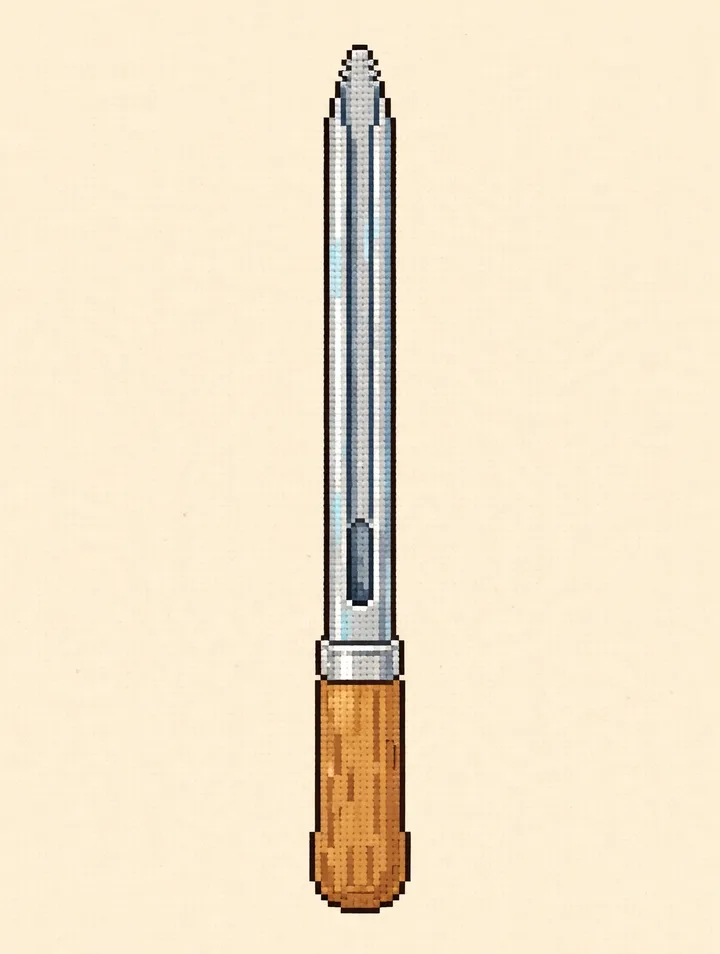
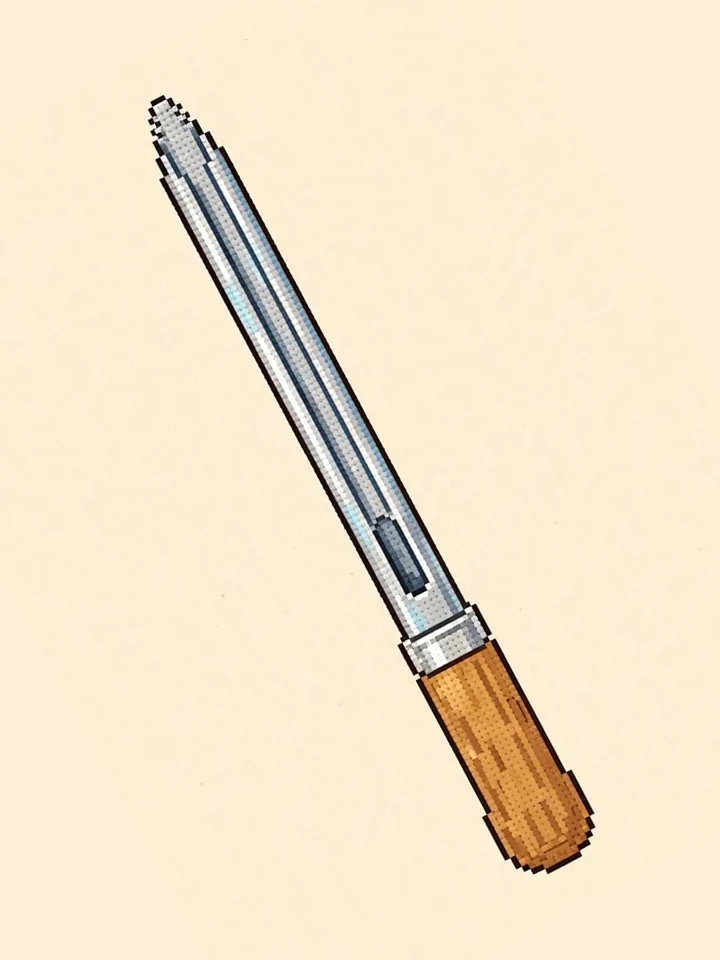
サイクル35: 写真とドット絵ペアの大きさと向きをそろえる

Changed region(s): [[0.1833, 0.0304, 0.825, 0.9727]]

diff --git a/kensa.html b/kensa.html
@@ -45,12 +45,15 @@
   /* 写真カードの馴染み（サイクル22）: 初期表示では場面＋写真＋段階チップ＋鑑定皿が1画面に収まるようカードを小さくし、
      場面（サイクル14）と同じ金の細枠で色味をつなぐ。出る時は kokuIn で静かに現れるだけ（reduced-motion でほぼ止まる） */
   /* 穀刺しの写真とドット絵の並び（サイクル28）: 横並びにして高さは写真カードのままに保ち、鑑定皿が1画面に収まる形を崩さない */
-  #kokuPair { display:flex; gap:10px; justify-content:center; align-items:flex-start; margin-top:10px; }
+  /* 写真とドット絵ペアの整え（サイクル35・実プレイレビュー）: 大きさと向きが不揃いだったため、
+     両ペアとも写真とドット絵を同じ幅・同じ高さ（align-items:stretch）にそろえ、
+     穀刺しのドット絵は写真と同じ斜め（先端が左上・持ち手が右下）になるよう画像自体を傾けた */
+  #kokuPair { display:flex; gap:10px; justify-content:center; align-items:stretch; margin-top:10px; }
   #kokuPhoto { width:min(168px,46%); margin:0; background:var(--paper); border-radius:16px; overflow:hidden;
     box-shadow:0 4px 12px rgba(26,24,20,.18), inset 0 0 0 1px rgba(184,137,58,.35); animation:kokuIn .55s ease; }
   /* 穀刺しのドット絵（サイクル28・ドット絵化2点目）: 実物写真をもとに手描きの可愛いキャラクター風ドット絵に描き起こした版。
      写真そのものの表示（サイクル21）はそのまま残し、となりへ小さく静かに並べるだけにする（重複が煩くならない置き方） */
-  #kokuDot { width:min(120px,34%); margin:0; background:var(--paper); border-radius:16px; overflow:hidden;
+  #kokuDot { width:min(168px,46%); margin:0; background:var(--paper); border-radius:16px; overflow:hidden;
     box-shadow:0 4px 12px rgba(26,24,20,.18), inset 0 0 0 1px rgba(184,137,58,.35); animation:kokuIn .55s ease; }
   #kokuDot.off { display:none; }
   #kokuDot img { display:block; width:100%; aspect-ratio:3/4; object-fit:cover; }
@@ -70,9 +73,9 @@
   /* 一等米の写真とドット絵の並び（サイクル29・ドット絵化3点目）: 実物写真をもとに手描きの可愛いキャラクター風ドット絵に描き起こした版を、
      写真そのものの表示（サイクル24）はそのまま残し、「みわける」ではとなりへ小さく静かに並べる（高さは写真カードのまま＝皿の収まりを崩さない）。
      資料置き場では写真の下に同じドット絵を .ittoPhoto.ref の大きさで置き、読みたい人が見比べられるようにする */
-  #ittoPair { display:flex; gap:10px; justify-content:center; align-items:flex-start; margin-bottom:10px; }
+  #ittoPair { display:flex; gap:10px; justify-content:center; align-items:stretch; margin-bottom:10px; }
   #ittoPair .ittoPhoto { margin:0; }
-  #ittoDot { width:min(102px,28%); margin:0; background:var(--paper); border-radius:16px; overflow:hidden;
+  #ittoDot { width:min(144px,40%); margin:0; background:var(--paper); border-radius:16px; overflow:hidden;
     box-shadow:0 4px 12px rgba(26,24,20,.18), inset 0 0 0 1px rgba(184,137,58,.35); animation:kokuIn .55s ease; }
   #ittoDot img { display:block; width:100%; aspect-ratio:3/4; object-fit:cover; }
   #ittoDot figcaption { padding:7px 6px 9px; text-align:center; font-size:15px; font-weight:800; color:#6b6353; }
@@ -443,7 +446,7 @@
     </table>
     <p>1袋から穀刺しで約40gを抜きます（十分に取れる場合は約20gでも可）。試料は合計1kgが目安で、足りない場合は1袋の量を増やします。抜く袋は無作為に選びます。</p>
     <p>水分は規程の表値です。附則で、醸造用を除く玄米は当分の間この値に1.0%を加えた16.0%が最高限度とされています。ゲームのお米は、どちらの読みでも結論が変わらない水分（14%台前半か16.5%以上）だけにしています。3等の規格にも満たないものは規格外です。形質（見た目のよさ）は、本物の検査では各等級の標準品と見比べて判定します。</p>
-    <p id="footNotes">農産物検査の仕事が題材です。試料の採取は穀刺しで1袋 約40g（標準抽出方法・平成13年農林水産省告示第443号）。「さす」の場面に載せた穀刺しの写真は、実際の検査で使う実物です。水分は3回の測定の平均で判定します。粒の鑑定は同じ試料を白い皿と黒い皿の双方に入れて確認します。鑑定は視覚・触覚・臭覚・聴覚を用いて行います（鑑定方法・平成13年農林水産省告示第333号）。等級の規格は農産物規格規程（平成13年告示第244号）の水稲うるち玄米に基づきます。等級は、整粒・水分・被害粒・死米・着色粒・異種穀粒・異物の全項目がその等級の限度内にある、最も良い等級です（未熟粒は「計」に入りません）。判定した等級は等級証印として米袋に押印し、あわせて検査証明年月日の日付印を押します。死米と着色粒は、穀粒判別器でも鑑定できます。「みわける」と資料に載せた一等米の写真は実物です。検査結果は、穀粒判定器の印字ラベルの様式で、皿の50粒の実数（粒数とその割合）で表示します。場面の絵は、検査風景の写真をもとに描いたドット絵です（写真そのものは資料に置きました）。穀刺しのドット絵も実物の写真をもとに描いたもので、写真そのものと並べて置きました。一等米のドット絵も実物の写真をもとに描いたもので、写真そのものと並べて置きました。粒と皿は、場面のドット絵に合わせて角ばった輪郭と点の質感にそろえました。水分計と袋まわりもドット絵の点の質感にそろえ、水滴と米粒の小さなドット絵を添えました。検査員の顔は、はかる以降の各場面にも大きく添えました。最初の画面では、案内を鑑定皿の上に移し、皿は小さくして「かんてい皿」と名前を付けました。</p>
+    <p id="footNotes">農産物検査の仕事が題材です。試料の採取は穀刺しで1袋 約40g（標準抽出方法・平成13年農林水産省告示第443号）。「さす」の場面に載せた穀刺しの写真は、実際の検査で使う実物です。水分は3回の測定の平均で判定します。粒の鑑定は同じ試料を白い皿と黒い皿の双方に入れて確認します。鑑定は視覚・触覚・臭覚・聴覚を用いて行います（鑑定方法・平成13年農林水産省告示第333号）。等級の規格は農産物規格規程（平成13年告示第244号）の水稲うるち玄米に基づきます。等級は、整粒・水分・被害粒・死米・着色粒・異種穀粒・異物の全項目がその等級の限度内にある、最も良い等級です（未熟粒は「計」に入りません）。判定した等級は等級証印として米袋に押印し、あわせて検査証明年月日の日付印を押します。死米と着色粒は、穀粒判別器でも鑑定できます。「みわける」と資料に載せた一等米の写真は実物です。検査結果は、穀粒判定器の印字ラベルの様式で、皿の50粒の実数（粒数とその割合）で表示します。場面の絵は、検査風景の写真をもとに描いたドット絵です（写真そのものは資料に置きました）。穀刺しのドット絵も実物の写真をもとに描いたもので、写真そのものと並べて置きました。一等米のドット絵も実物の写真をもとに描いたもので、写真そのものと並べて置きました。粒と皿は、場面のドット絵に合わせて角ばった輪郭と点の質感にそろえました。水分計と袋まわりもドット絵の点の質感にそろえ、水滴と米粒の小さなドット絵を添えました。検査員の顔は、はかる以降の各場面にも大きく添えました。最初の画面では、案内を鑑定皿の上に移し、皿は小さくして「かんてい皿」と名前を付けました。写真とドット絵のペアは、大きさをそろえ、穀刺しのドット絵は写真と同じ斜めの向きにしました。</p>
     <p>出典: <a href="https://www.maff.go.jp/j/kokuji_tuti/kokuji/k0001439.html" target="_blank" rel="noopener">農産物規格規程（平成13年農林水産省告示第244号）</a>／<a href="https://www.maff.go.jp/j/seisan/syoryu/kensa/attach/pdf/index-25.pdf" target="_blank" rel="noopener">農林水産省「コメの農産物検査」</a>／<a href="https://www.maff.go.jp/j/seisan/syoryu/kensa/attach/pdf/hourei-233.pdf" target="_blank" rel="noopener">成分検査の実施マニュアル（標準抽出方法の運用）</a></p>
   </details>
 </main>

diff --git a/tests/test_kensa.py b/tests/test_kensa.py
@@ -537,7 +537,7 @@ class Cycle29DotIttomaiTests(unittest.TestCase):
         # 横並び（高さは写真カードのまま＝皿の収まりを崩さない）
         self.assertIn('id="ittoPair"', HTML)
         self.assertIn("#ittoPair { display:flex;", HTML)
-        self.assertIn("#ittoDot { width:min(102px,28%);", HTML)
+        self.assertIn("#ittoDot { width:min(144px,40%);", HTML)  # サイクル35で写真と同幅に更新
         # 資料のドット絵は refBox の中だけ（写真の下）
         ref = HTML.split('id="refBox"', 1)[1]
         self.assertIn('id="ittoDotRef"', ref)
@@ -647,5 +647,36 @@ class Cycle34FirstScreenTests(unittest.TestCase):
         self.assertIn('<div id="trayLabel">かんてい皿</div>', HTML)
         self.assertIn("#trayLabel {", HTML)
         self.assertIn("最初の画面では、案内を鑑定皿の上に移し", HTML)
+        self.assertNotIn("setInterval", HTML)
+        self.assertNotIn("alert(", HTML)
+
+
+class Cycle35PairAlignmentTests(unittest.TestCase):
+    def test_cycle35_photo_dot_pairs_same_size_and_direction(self):
+        # サイクル35（実プレイレビュー）: 写真とドット絵ペアの大きさと向きが不揃い。
+        # 両ペアとも写真とドット絵を同じ幅にし、並びは stretch で高さをそろえる。
+        # 穀刺しのドット絵は写真と同じ斜め向きの画像（差し替え済みファイル）にし、
+        # 実物写真そのものの表示は維持する。遊び・手順・数値は変えない
+        self.assertIn("#kokuPair { display:flex; gap:10px; justify-content:center; align-items:stretch;", HTML)
+        self.assertIn("#kokuPhoto { width:min(168px,46%);", HTML)
+        self.assertIn("#kokuDot { width:min(168px,46%);", HTML)
+        self.assertIn("#ittoPair { display:flex; gap:10px; justify-content:center; align-items:stretch;", HTML)
+        self.assertIn("#ittoDot { width:min(144px,40%);", HTML)
+        self.assertIn("#ittoPair .ittoPhoto { margin:0; }", HTML)
+        self.assertIn(".ittoPhoto { width:min(144px,40%);", HTML)
+        # 実物写真は両ペアとも維持
+        self.assertIn('src="kensa/kokusashi.webp"', HTML)
+        self.assertIn('src="kensa/kokusashi_dot.webp"', HTML)
+        self.assertIn('src="kensa/ittomai.webp"', HTML)
+        self.assertIn('src="kensa/ittomai_dot.webp"', HTML)
+        root = Path(__file__).resolve().parent.parent
+        dot = root.joinpath("kensa", "kokusashi_dot.webp")
+        self.assertTrue(dot.exists())
+        self.assertLess(dot.stat().st_size, 300_000)
+        # 向きをそろえた版のハッシュ（縦向きの旧版 b2e8ae… とは異なる）
+        import hashlib
+        self.assertEqual(hashlib.md5(dot.read_bytes()).hexdigest(),
+                         "97e5e3b07ebf742f40037acb9f03a354")
+        self.assertIn("写真とドット絵のペアは、大きさをそろえ", HTML)
         self.assertNotIn("setInterval", HTML)
         self.assertNotIn("alert(", HTML)
